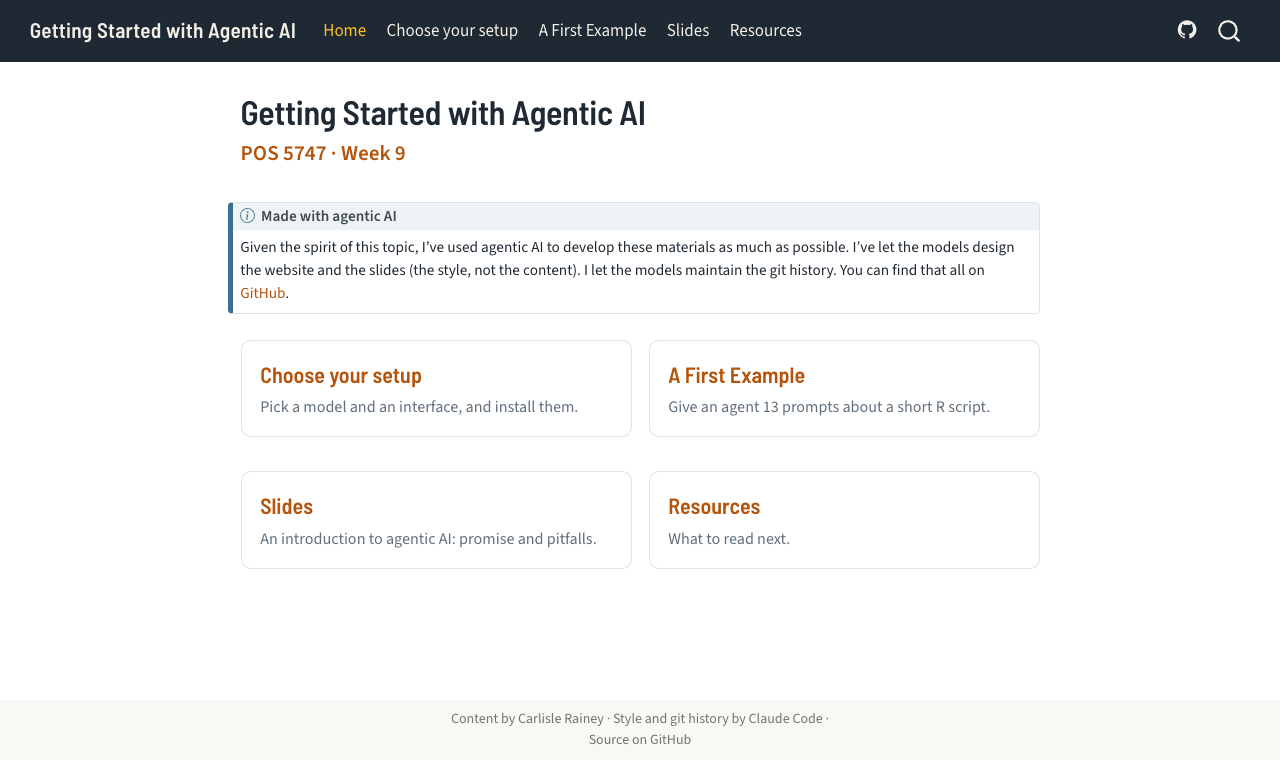
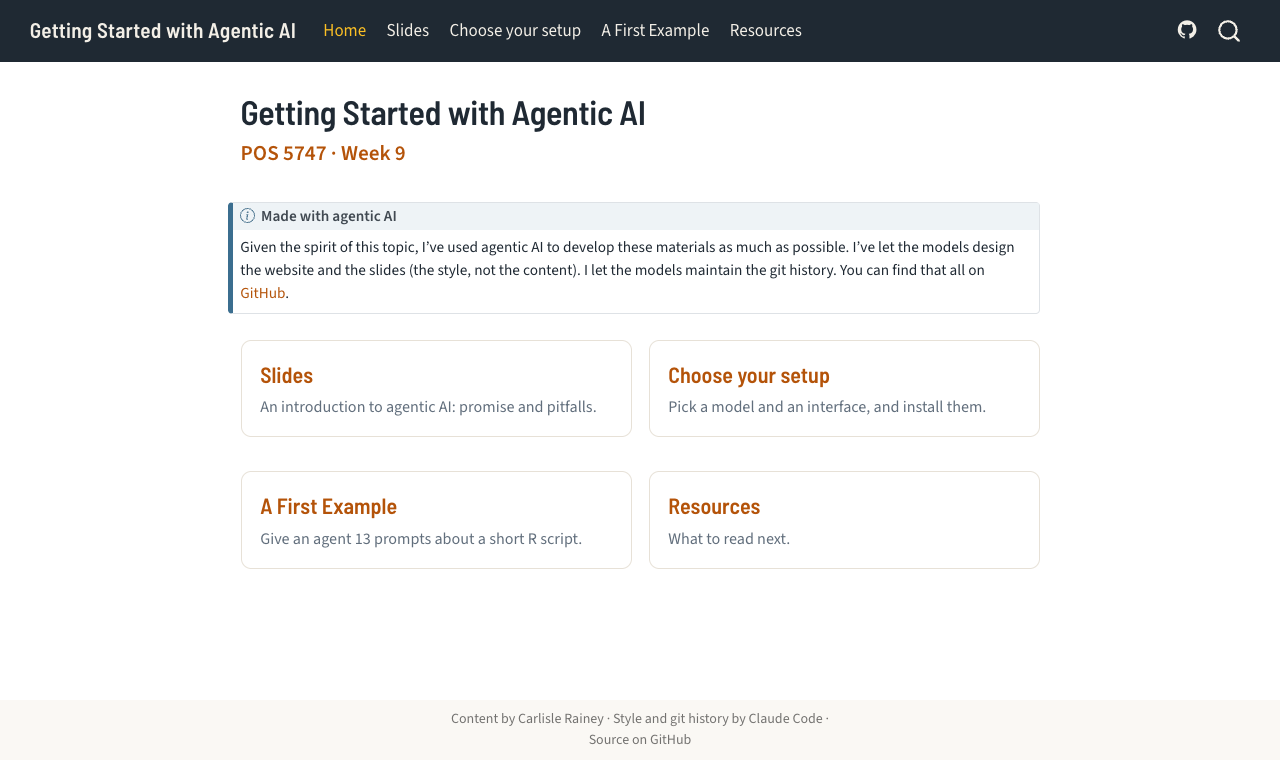
Put the lecture first: reorder the site and fix two tenses
The lecture comes before setup and A First Example. The navbar, the
home-page cards, and the README now list the slides first, and the two
sentences that promised the many-runs comparison "in lecture" now
refer back to it.

diff --git a/docs/first-example.html b/docs/first-example.html
@@ -126,16 +126,16 @@ pre > code.sourceCode > span > a:first-child::before { text-decoration: underlin
 <span class="menu-text">Home</span></a>
   </li>  
   <li class="nav-item">
+    <a class="nav-link" href="./slides/slides.html"> 
+<span class="menu-text">Slides</span></a>
+  </li>  
+  <li class="nav-item">
     <a class="nav-link" href="./setup.html"> 
 <span class="menu-text">Choose your setup</span></a>
   </li>  
   <li class="nav-item">
     <a class="nav-link active" href="./first-example.html" aria-current="page"> 
 <span class="menu-text">A First Example</span></a>
-  </li>  
-  <li class="nav-item">
-    <a class="nav-link" href="./slides/slides.html"> 
-<span class="menu-text">Slides</span></a>
   </li>  
   <li class="nav-item">
     <a class="nav-link" href="./resources.html"> 
@@ -205,7 +205,7 @@ pre > code.sourceCode > span > a:first-child::before { text-decoration: underlin
 </header>
 
 
-<p>In this exercise, you’ll give 13 prompts to a coding agent and watch what it does with a short R script. The goal is to get a feel for the workflow and to make sure the software works on your machine. You’ll see one run of each prompt. In lecture, we’ll look at what happens across many runs.</p>
+<p>In this exercise, you’ll give 13 prompts to a coding agent and watch what it does with a short R script. The goal is to get a feel for the workflow and to make sure the software works on your machine. You’ll see one run of each prompt. In lecture, we looked at what happens across many runs.</p>
 <p>The script, <code>logit.R</code>, is supposed to print a predicted probability from a logit model. It has two bugs.</p>
 <section id="before-you-start" class="level2">
 <h2 class="anchored" data-anchor-id="before-you-start">Before you start</h2>
@@ -341,7 +341,7 @@ pre > code.sourceCode > span > a:first-child::before { text-decoration: underlin
 </div>
 </div>
 </div>
-<p><strong>Write down what the agent said, not what it should have said.</strong> In lecture, we’ll compare the run you got with many runs of the same prompt. (Those runs approved every request ahead of time.)</p>
+<p><strong>Write down what the agent said, not what it should have said.</strong> In lecture, we looked at many runs of the same prompt. Compare the run you got with those. (Those runs approved every request ahead of time.)</p>
 <p><strong><code>data.csv</code> has 500 rows plus a header.</strong> An agent sometimes reports that <code>data.csv</code> is truncated. It isn’t. To check, run <code>nrow(read.csv("data.csv"))</code> in the RStudio console. It prints <code>500</code>.</p>
 </section>
 <section id="part-1-find-and-fix-the-bugs" class="level3">

diff --git a/docs/index.html b/docs/index.html
@@ -92,16 +92,16 @@ ul.task-list li input[type="checkbox"] {
 <span class="menu-text">Home</span></a>
   </li>  
   <li class="nav-item">
+    <a class="nav-link" href="./slides/slides.html"> 
+<span class="menu-text">Slides</span></a>
+  </li>  
+  <li class="nav-item">
     <a class="nav-link" href="./setup.html"> 
 <span class="menu-text">Choose your setup</span></a>
   </li>  
   <li class="nav-item">
     <a class="nav-link" href="./first-example.html"> 
 <span class="menu-text">A First Example</span></a>
-  </li>  
-  <li class="nav-item">
-    <a class="nav-link" href="./slides/slides.html"> 
-<span class="menu-text">Slides</span></a>
   </li>  
   <li class="nav-item">
     <a class="nav-link" href="./resources.html"> 
@@ -163,9 +163,9 @@ Made with agentic AI
 </div>
 </div>
 <div class="cards">
+<p><a href="./slides/slides.html" class="card-link"><span class="card-title">Slides</span><span class="card-text">An introduction to agentic AI: promise and pitfalls.</span></a></p>
 <p><a href="./setup.html" class="card-link"><span class="card-title">Choose your setup</span><span class="card-text">Pick a model and an interface, and install them.</span></a></p>
 <p><a href="./first-example.html" class="card-link"><span class="card-title">A First Example</span><span class="card-text">Give an agent 13 prompts about a short R script.</span></a></p>
-<p><a href="./slides/slides.html" class="card-link"><span class="card-title">Slides</span><span class="card-text">An introduction to agentic AI: promise and pitfalls.</span></a></p>
 <p><a href="./resources.html" class="card-link"><span class="card-title">Resources</span><span class="card-text">What to read next.</span></a></p>
 </div>
 

diff --git a/docs/setup.html b/docs/setup.html
@@ -126,16 +126,16 @@ pre > code.sourceCode > span > a:first-child::before { text-decoration: underlin
 <span class="menu-text">Home</span></a>
   </li>  
   <li class="nav-item">
+    <a class="nav-link" href="./slides/slides.html"> 
+<span class="menu-text">Slides</span></a>
+  </li>  
+  <li class="nav-item">
     <a class="nav-link active" href="./setup.html" aria-current="page"> 
 <span class="menu-text">Choose your setup</span></a>
   </li>  
   <li class="nav-item">
     <a class="nav-link" href="./first-example.html"> 
 <span class="menu-text">A First Example</span></a>
-  </li>  
-  <li class="nav-item">
-    <a class="nav-link" href="./slides/slides.html"> 
-<span class="menu-text">Slides</span></a>
   </li>  
   <li class="nav-item">
     <a class="nav-link" href="./resources.html"> 

diff --git a/docs/claude-code-claude.html b/docs/claude-code-claude.html
@@ -126,16 +126,16 @@ pre > code.sourceCode > span > a:first-child::before { text-decoration: underlin
 <span class="menu-text">Home</span></a>
   </li>  
   <li class="nav-item">
+    <a class="nav-link" href="./slides/slides.html"> 
+<span class="menu-text">Slides</span></a>
+  </li>  
+  <li class="nav-item">
     <a class="nav-link" href="./setup.html"> 
 <span class="menu-text">Choose your setup</span></a>
   </li>  
   <li class="nav-item">
     <a class="nav-link" href="./first-example.html"> 
 <span class="menu-text">A First Example</span></a>
-  </li>  
-  <li class="nav-item">
-    <a class="nav-link" href="./slides/slides.html"> 
-<span class="menu-text">Slides</span></a>
   </li>  
   <li class="nav-item">
     <a class="nav-link" href="./resources.html"> 

diff --git a/docs/claude-code-gptoss.html b/docs/claude-code-gptoss.html
@@ -126,16 +126,16 @@ pre > code.sourceCode > span > a:first-child::before { text-decoration: underlin
 <span class="menu-text">Home</span></a>
   </li>  
   <li class="nav-item">
+    <a class="nav-link" href="./slides/slides.html"> 
+<span class="menu-text">Slides</span></a>
+  </li>  
+  <li class="nav-item">
     <a class="nav-link" href="./setup.html"> 
 <span class="menu-text">Choose your setup</span></a>
   </li>  
   <li class="nav-item">
     <a class="nav-link" href="./first-example.html"> 
 <span class="menu-text">A First Example</span></a>
-  </li>  
-  <li class="nav-item">
-    <a class="nav-link" href="./slides/slides.html"> 
-<span class="menu-text">Slides</span></a>
   </li>  
   <li class="nav-item">
     <a class="nav-link" href="./resources.html"> 

diff --git a/docs/claude-code-qwen.html b/docs/claude-code-qwen.html
@@ -126,16 +126,16 @@ pre > code.sourceCode > span > a:first-child::before { text-decoration: underlin
 <span class="menu-text">Home</span></a>
   </li>  
   <li class="nav-item">
+    <a class="nav-link" href="./slides/slides.html"> 
+<span class="menu-text">Slides</span></a>
+  </li>  
+  <li class="nav-item">
     <a class="nav-link" href="./setup.html"> 
 <span class="menu-text">Choose your setup</span></a>
   </li>  
   <li class="nav-item">
     <a class="nav-link" href="./first-example.html"> 
 <span class="menu-text">A First Example</span></a>
-  </li>  
-  <li class="nav-item">
-    <a class="nav-link" href="./slides/slides.html"> 
-<span class="menu-text">Slides</span></a>
   </li>  
   <li class="nav-item">
     <a class="nav-link" href="./resources.html"> 

diff --git a/docs/opencode-gptoss.html b/docs/opencode-gptoss.html
@@ -126,16 +126,16 @@ pre > code.sourceCode > span > a:first-child::before { text-decoration: underlin
 <span class="menu-text">Home</span></a>
   </li>  
   <li class="nav-item">
+    <a class="nav-link" href="./slides/slides.html"> 
+<span class="menu-text">Slides</span></a>
+  </li>  
+  <li class="nav-item">
     <a class="nav-link" href="./setup.html"> 
 <span class="menu-text">Choose your setup</span></a>
   </li>  
   <li class="nav-item">
     <a class="nav-link" href="./first-example.html"> 
 <span class="menu-text">A First Example</span></a>
-  </li>  
-  <li class="nav-item">
-    <a class="nav-link" href="./slides/slides.html"> 
-<span class="menu-text">Slides</span></a>
   </li>  
   <li class="nav-item">
     <a class="nav-link" href="./resources.html"> 

diff --git a/docs/opencode-qwen.html b/docs/opencode-qwen.html
@@ -126,16 +126,16 @@ pre > code.sourceCode > span > a:first-child::before { text-decoration: underlin
 <span class="menu-text">Home</span></a>
   </li>  
   <li class="nav-item">
+    <a class="nav-link" href="./slides/slides.html"> 
+<span class="menu-text">Slides</span></a>
+  </li>  
+  <li class="nav-item">
     <a class="nav-link" href="./setup.html"> 
 <span class="menu-text">Choose your setup</span></a>
   </li>  
   <li class="nav-item">
     <a class="nav-link" href="./first-example.html"> 
 <span class="menu-text">A First Example</span></a>
-  </li>  
-  <li class="nav-item">
-    <a class="nav-link" href="./slides/slides.html"> 
-<span class="menu-text">Slides</span></a>
   </li>  
   <li class="nav-item">
     <a class="nav-link" href="./resources.html"> 

diff --git a/docs/resources.html b/docs/resources.html
@@ -92,16 +92,16 @@ ul.task-list li input[type="checkbox"] {
 <span class="menu-text">Home</span></a>
   </li>  
   <li class="nav-item">
+    <a class="nav-link" href="./slides/slides.html"> 
+<span class="menu-text">Slides</span></a>
+  </li>  
+  <li class="nav-item">
     <a class="nav-link" href="./setup.html"> 
 <span class="menu-text">Choose your setup</span></a>
   </li>  
   <li class="nav-item">
     <a class="nav-link" href="./first-example.html"> 
 <span class="menu-text">A First Example</span></a>
-  </li>  
-  <li class="nav-item">
-    <a class="nav-link" href="./slides/slides.html"> 
-<span class="menu-text">Slides</span></a>
   </li>  
   <li class="nav-item">
     <a class="nav-link active" href="./resources.html" aria-current="page"> 

diff --git a/README.md b/README.md
@@ -6,7 +6,7 @@
 [![Style and git history by Claude Code](https://img.shields.io/badge/style_%26_git_history-Claude_Code-b45309)](https://code.claude.com/docs/en/overview)
 [![GitHub Pages](https://img.shields.io/badge/hosted_on-GitHub_Pages-1f2933)](https://pos5747.github.io/agentic-ai/)
 
-Materials for week 9 of POS 5747, a political science PhD course on probability models: how to set up a coding agent, a first exercise with it, a lecture on what agents do well and badly, and a list of resources.
+Materials for week 9 of POS 5747, a political science PhD course on probability models: a lecture on what agents do well and badly, then how to set up a coding agent, a first exercise with it, and a list of resources.
 
 <p align="center">
   <img src=".github/readme/slide-agent.png" alt="A slide from the deck: a real Claude Code run shown as five panes (the code, the diff, the files, the output, and the conversation)" width="820">
@@ -27,10 +27,10 @@ In practice, that means:
 
 | Page | What it does |
 |---|---|
+| [Slides](https://pos5747.github.io/agentic-ai/slides/slides.html) | "An Introduction to Agentic AI: Promise and Pitfalls" |
 | [Choose your setup](https://pos5747.github.io/agentic-ai/setup.html) | Pick a model (gpt-oss, qwen, or Claude) and an interface (OpenCode or Claude Code) |
 | Five install pages | One Windows block and one Mac block per pair, then a one-line check |
 | [A First Example](https://pos5747.github.io/agentic-ai/first-example.html) | Give an agent 13 prompts about a buggy R script, and check what it did |
-| [Slides](https://pos5747.github.io/agentic-ai/slides/slides.html) | "An Introduction to Agentic AI: Promise and Pitfalls" |
 | [Resources](https://pos5747.github.io/agentic-ai/resources.html) | What to read next, by person, roughly in order of value to a beginner |
 
 <p align="center">

diff --git a/_partials/_run-common.md b/_partials/_run-common.md
@@ -1,5 +1,5 @@
 **Write down what the agent said, not what it should have said.** In lecture,
-we'll compare the run you got with many runs of the same prompt. (Those runs
+we looked at many runs of the same prompt. Compare the run you got with those. (Those runs
 approved every request ahead of time.)
 
 **`data.csv` has 500 rows plus a header.** An agent sometimes reports that
